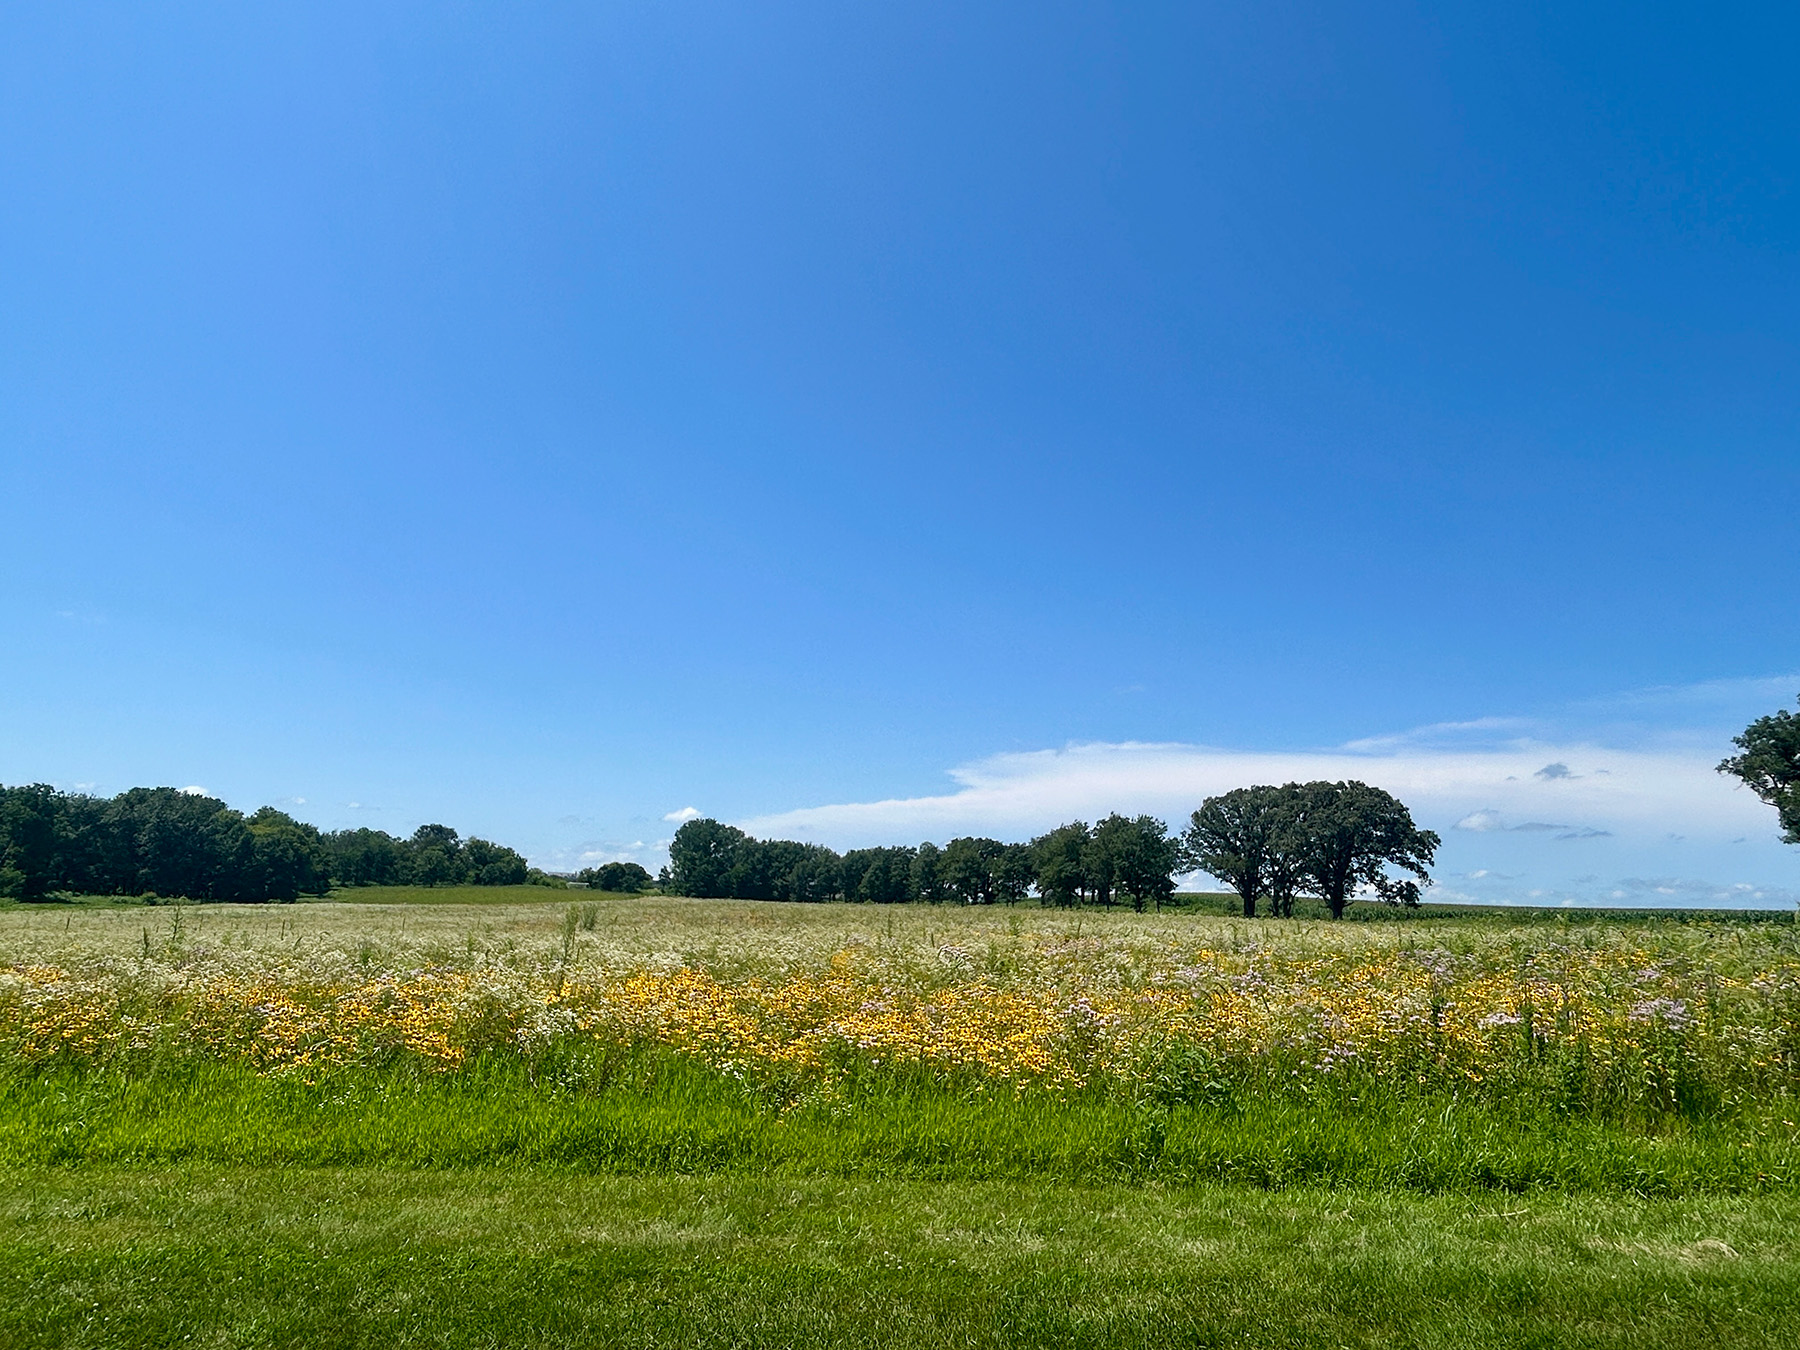
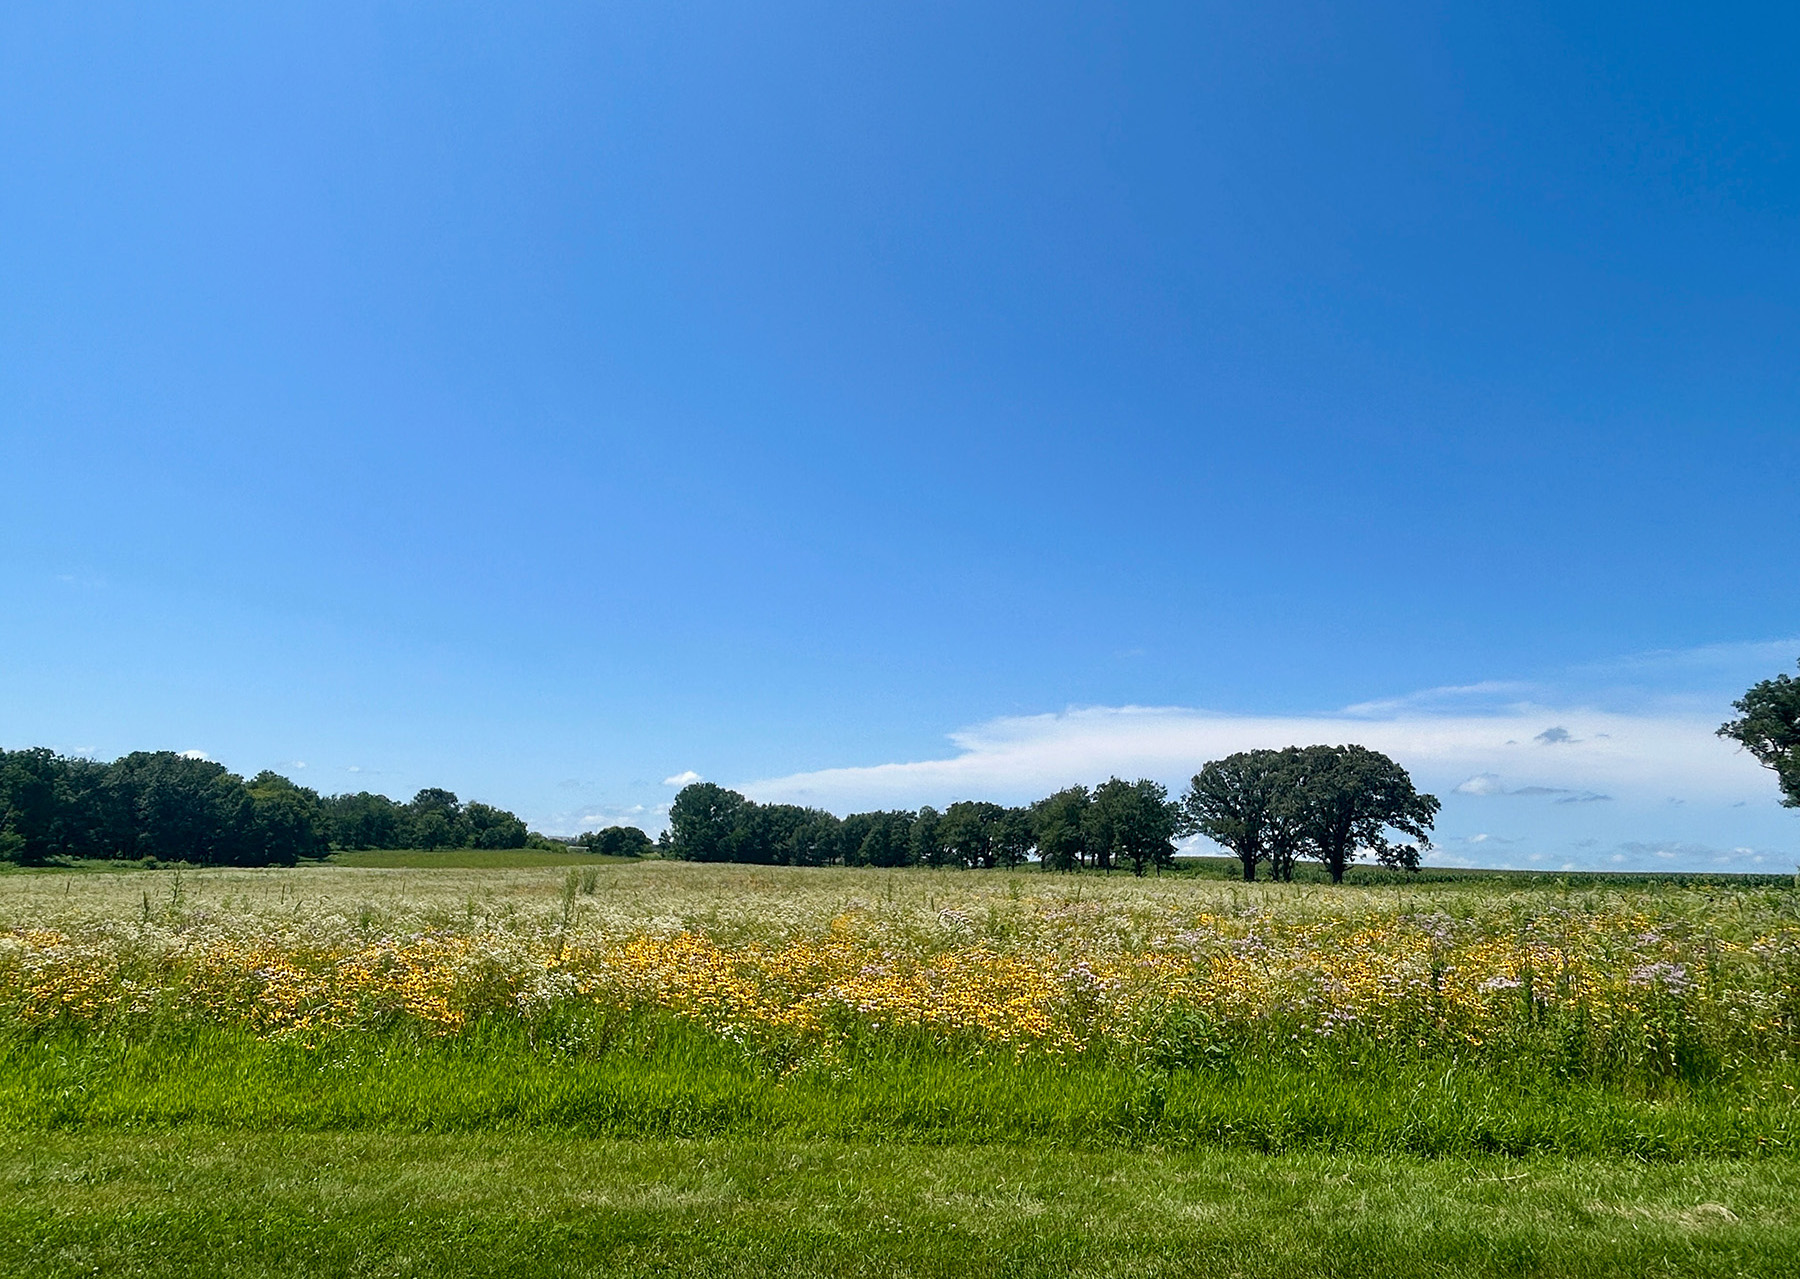
Update Design Projects “arb-centennial”

Changed region(s): [[0.0, 0.5489, 1.0, 1.0], [0.9333, 0.5184, 1.0, 0.6403], [0.8089, 0.5489, 0.8711, 0.5794]]

diff --git a/src/content/design/arb-centennial.md b/src/content/design/arb-centennial.md
@@ -232,7 +232,7 @@ gallery:
           focal_y: 50
           file: /assets/images/frame-v3-no-photos-mockup-number.jpg
           alt: Mockup of yellow frame around bur oak with a person taking a photo
-    - object_fit: contain
+    - object_fit: cover
       row_margin_bottom: large
       layout: thirds
       elements:
